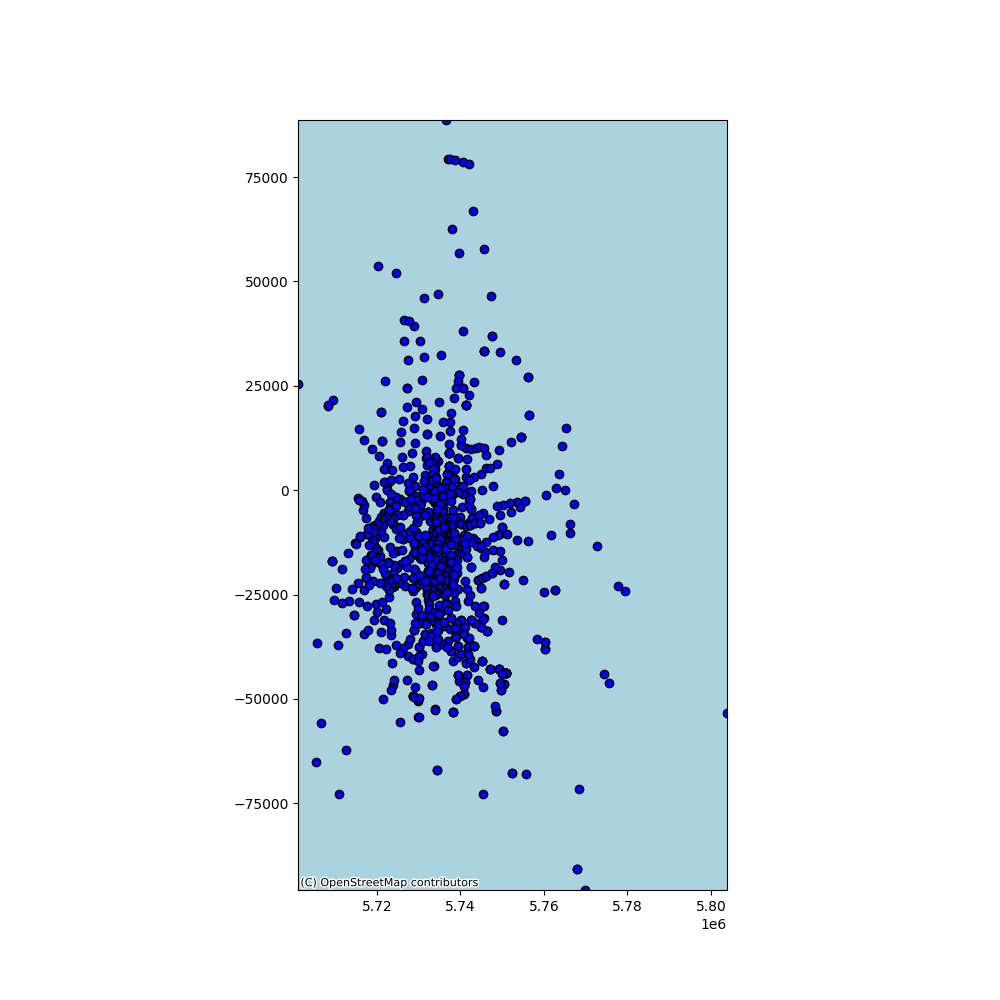
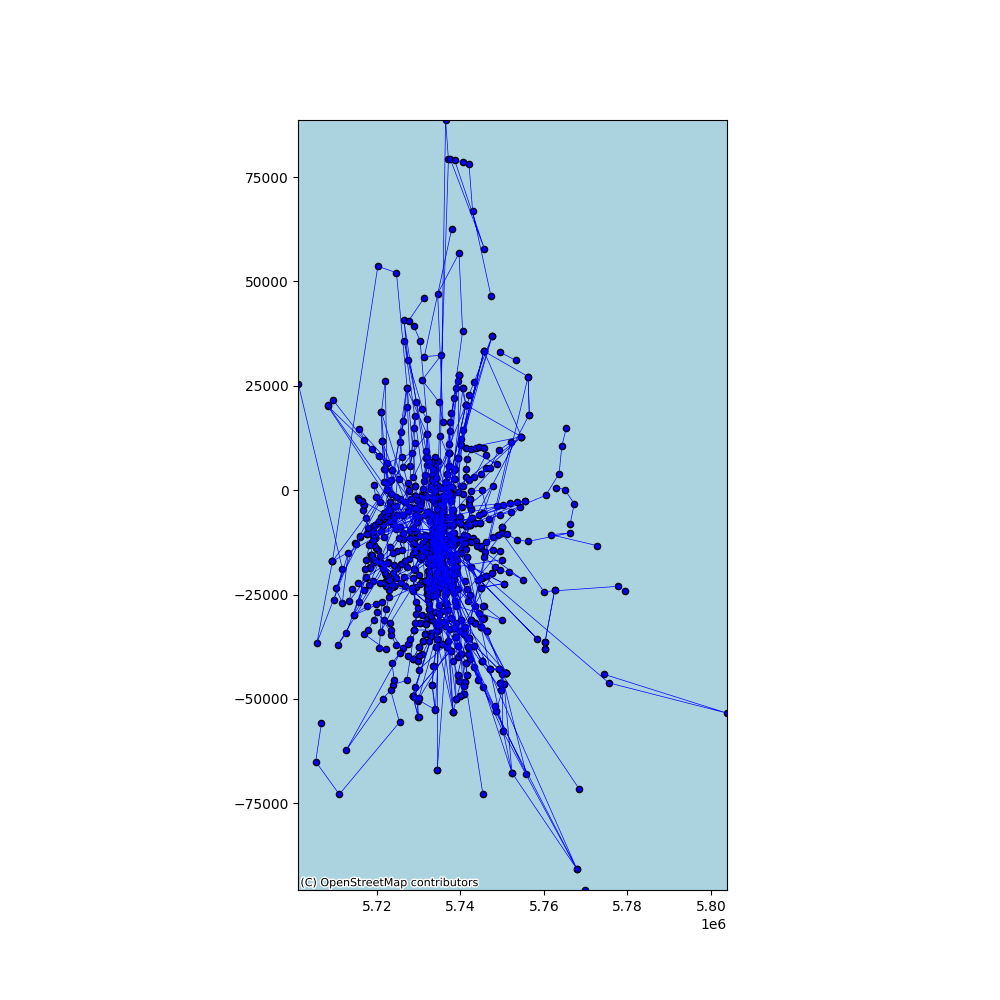
plots pngs

diff --git a/src/main.py b/src/main.py
@@ -10,6 +10,7 @@ from shapely.wkt import loads # convert geometry to coordinates
 from pyproj import Proj, transform # create edge weight
 import contextily as ctx # use map layer
 import geopandas as gpd
+from shapely.geometry import LineString
 
 cities = pd.read_csv('../data/cities.csv')
 stations = pd.read_csv('../data/stations.csv')
@@ -208,27 +209,44 @@ plt.close()
 #_____________________________________#
 
 # Create a GeoDataFrame
-gdf = gpd.GeoDataFrame(
-    expanded_df, 
+# Create a GeoDataFrame for the stations
+gdf_stations = gpd.GeoDataFrame(
+    expanded_df,
     geometry=gpd.points_from_xy(expanded_df.longitude, expanded_df.latitude)
 )
+gdf_stations.crs = "epsg:4326"
 
-# Set the coordinate reference system (CRS) to WGS84 (epsg:4326)
-gdf.crs = "epsg:4326"
+# Convert to Web Mercator
+gdf_stations = gdf_stations.to_crs(epsg=3857)
 
-# Convert the GeoDataFrame to Web Mercator for compatibility with contextily basemap
-gdf = gdf.to_crs(epsg=3857)
+# Create LineStrings for each track
+# This depends on how your data is structured, but here's a general approach
+lines = []
+for line_id in expanded_df['line_id'].unique():
+    line_stations = expanded_df[expanded_df['line_id'] == line_id]
+    if len(line_stations) > 1:
+        line_geometry = LineString(zip(line_stations.longitude, line_stations.latitude))
+        lines.append({'geometry': line_geometry, 'line_id': line_id})
+
+# Create a GeoDataFrame for the lines
+gdf_lines = gpd.GeoDataFrame(lines, crs="epsg:4326")
+gdf_lines = gdf_lines.to_crs(epsg=3857)
 
 # Plotting
 fig, ax = plt.subplots(figsize=(10, 10))
-gdf.plot(ax=ax, color='blue', edgecolor='k')
 
-# Add basemap using OpenStreetMap
+# Plot the lines
+gdf_lines.plot(ax=ax, linewidth=0.5, color='blue')
+
+# Plot the stations
+gdf_stations.plot(ax=ax, color='blue', edgecolor='k', markersize=20)
+
+# Add basemap
 ctx.add_basemap(ax, source=ctx.providers.OpenStreetMap.Mapnik)
 
 # Adjust the map extent
-ax.set_xlim(gdf.total_bounds[[0, 2]])
-ax.set_ylim(gdf.total_bounds[[1, 3]])
+ax.set_xlim(gdf_stations.total_bounds[[0, 2]])
+ax.set_ylim(gdf_stations.total_bounds[[1, 3]])
 
 plt.savefig('map_plot.png')
 plt.close()
